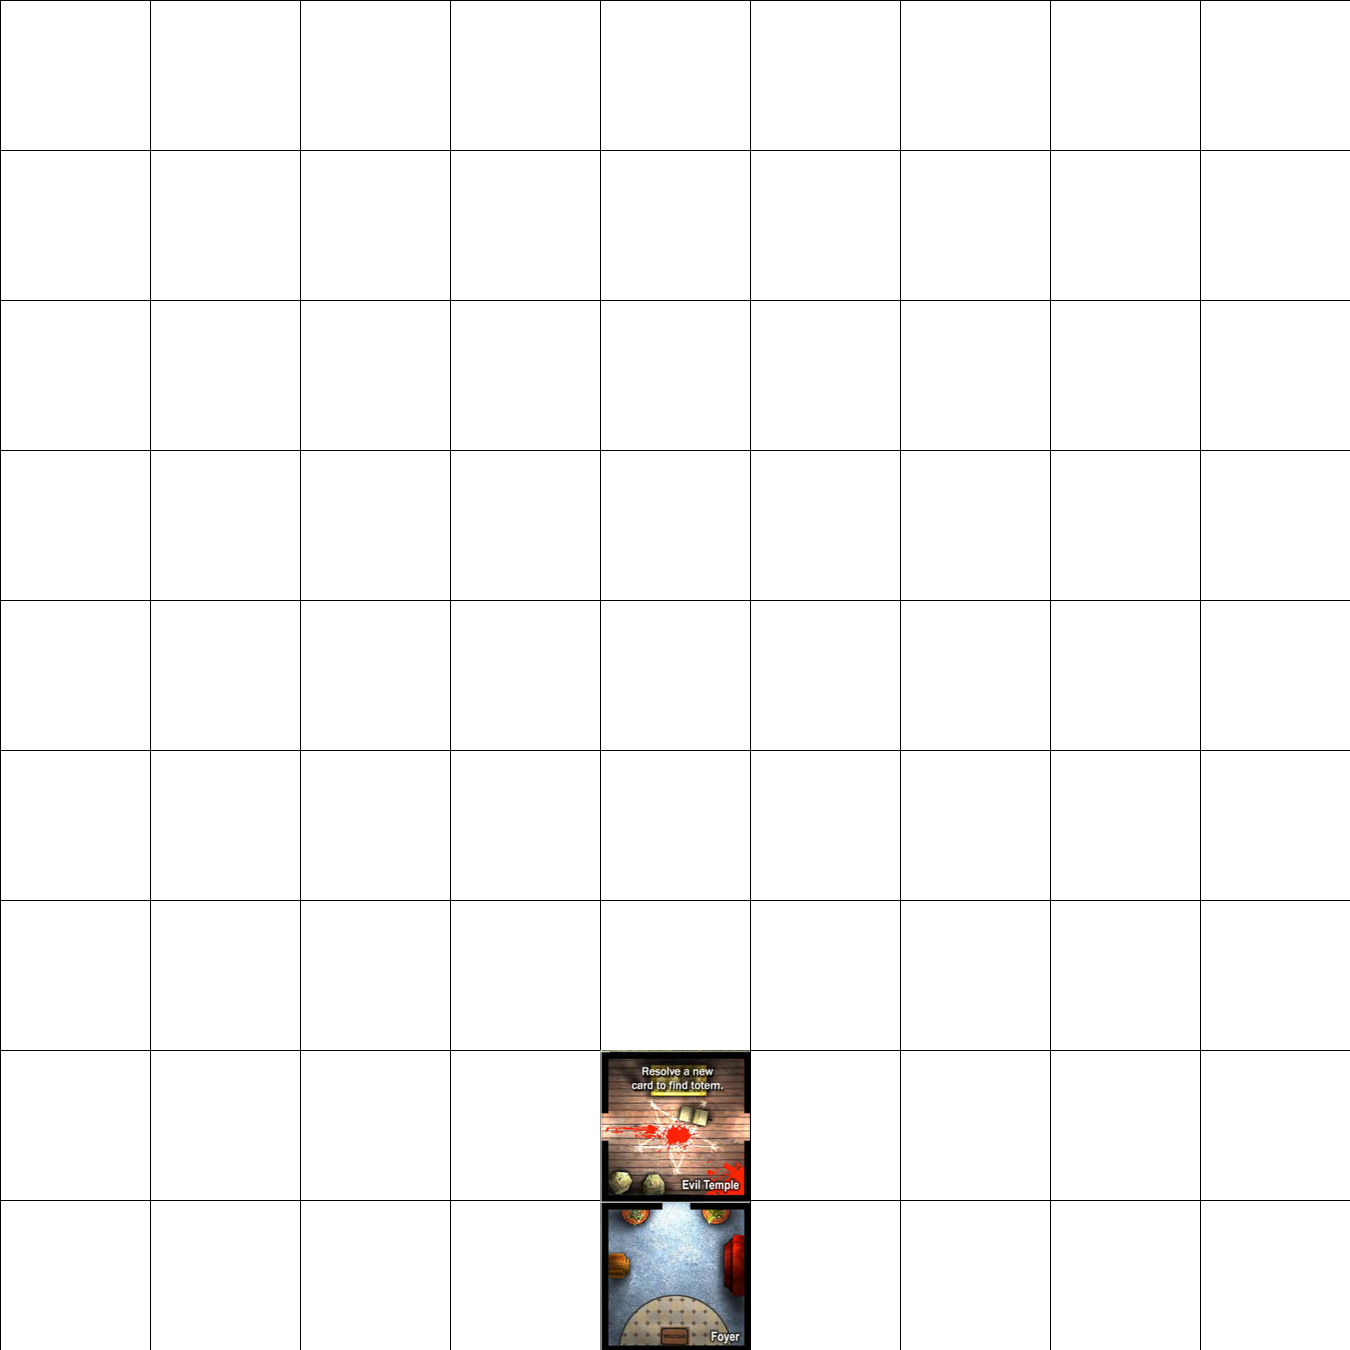
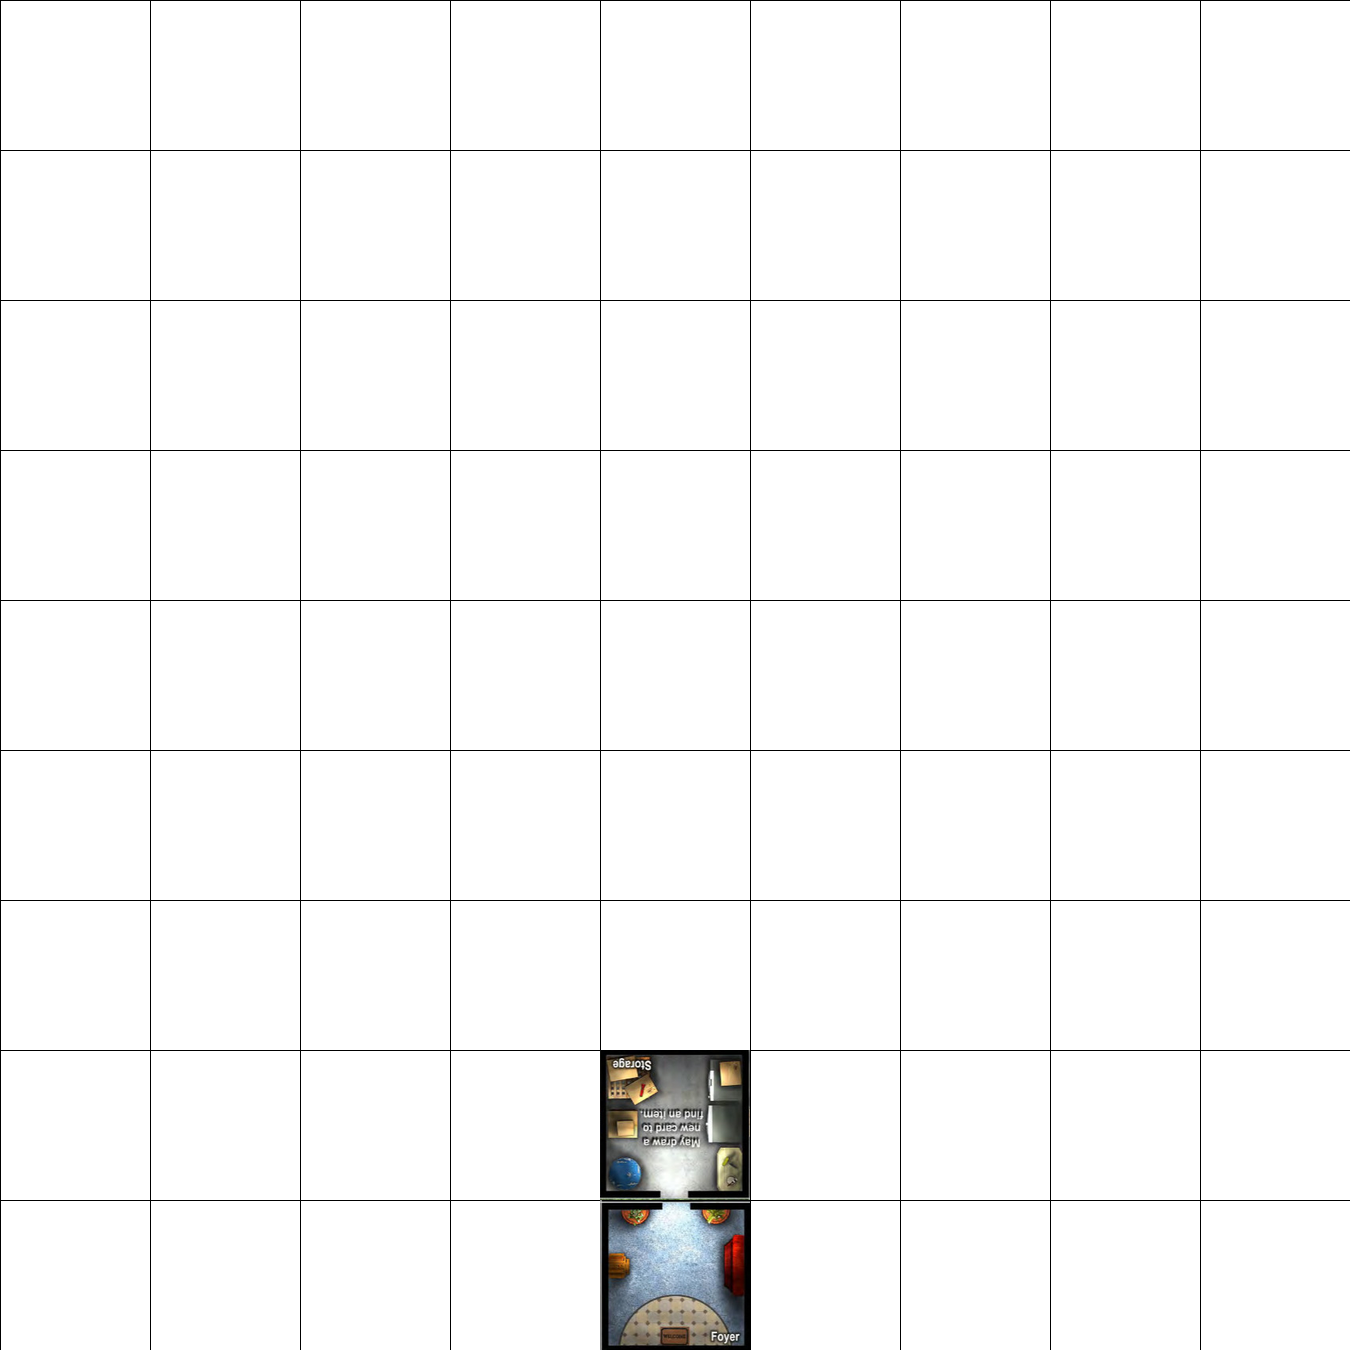
Add place tile logic

Changed region(s): [[0.4356, 0.7778, 0.56, 0.9022]]

diff --git a/src/Model/Game.py b/src/Model/Game.py
@@ -10,6 +10,7 @@ class Game:
     def __init__(self):
         self.game_data = GameData()
         self.player = Player(self.game_data)
+        self.current_direction = None
         self.image_handler = ImageHandler()
         self.current_zombie_count = 0
         self.state = State.STOPPED
@@ -71,22 +72,32 @@ class Game:
         else:
             next_tile = self.game_data.outdoor_tiles[0]
 
+        self.game_data.prev_tile = current_tile
+
         match direction:
             case Direction.NORTH:
+                self.current_direction = Direction.NORTH
                 self.player.y -= 1
                 self.game_data.map[self.player.y][self.player.x] = next_tile
 
             case Direction.SOUTH:
+                self.current_direction = Direction.SOUTH
                 self.player.y += 1
                 self.game_data.map[self.player.y][self.player.x] = next_tile
 
             case Direction.EAST:
+                self.current_direction = Direction.EAST
                 self.player.x += 1
                 self.game_data.map[self.player.y][self.player.x] = next_tile
 
             case Direction.WEST:
+                self.current_direction = Direction.WEST
                 self.player.x -= 1
                 self.game_data.map[self.player.y][self.player.x] = next_tile
+
+        # TODO: actions
+        if current_tile.action:
+            print(current_tile.action)
 
         self.state = State.ROTATING
         self.image_handler.create_map_image(self.game_data.map)
@@ -106,6 +117,30 @@ class Game:
         current_tile.door_n = temp
 
         self.image_handler.create_map_image(self.game_data.map)
+
+    def place_tile(self):
+        current_tile = self.get_current_tile()
+
+        match self.current_direction:
+            case Direction.NORTH:
+                if current_tile.door_s:
+                    self.state = State.DRAWING
+            case Direction.EAST:
+                if current_tile.door_w:
+                    self.state = State.DRAWING
+            case Direction.SOUTH:
+                if current_tile.door_n:
+                    self.state = State.DRAWING
+            case Direction.WEST:
+                if current_tile.door_e:
+                    self.state = State.DRAWING
+
+        if self.state == State.DRAWING:
+            self.get_game_status()
+        else:
+            print(
+                "Sorry the doors to not match up, try rotating and matching the doors."
+            )
 
     def get_current_tile(self):
         return self.game_data.map[self.player.y][self.player.x]

diff --git a/src/View/Commands.py b/src/View/Commands.py
@@ -74,6 +74,16 @@ class Commands(cmd.Cmd):
         else:
             print("You are currently not in the rotating state")
 
+    def do_place(self, line):
+        """
+        Places tile at current location and rotation
+        :return:
+        """
+        if self.game.state == State.ROTATING:
+            self.game.place_tile()
+        else:
+            print("You are currently not in the rotating state")
+
     @staticmethod
     def do_exit(self):
         """

diff --git a/src/Model/GameData.py b/src/Model/GameData.py
@@ -9,6 +9,7 @@ from Model.Tile import Tile
 class GameData:
     def __init__(self):
         self.map = [[0] * 9 for i in range(9)]
+        self.prev_tile = None
         self.indoor_tiles = []
         self.outdoor_tiles = []
         self.dev_cards = []
